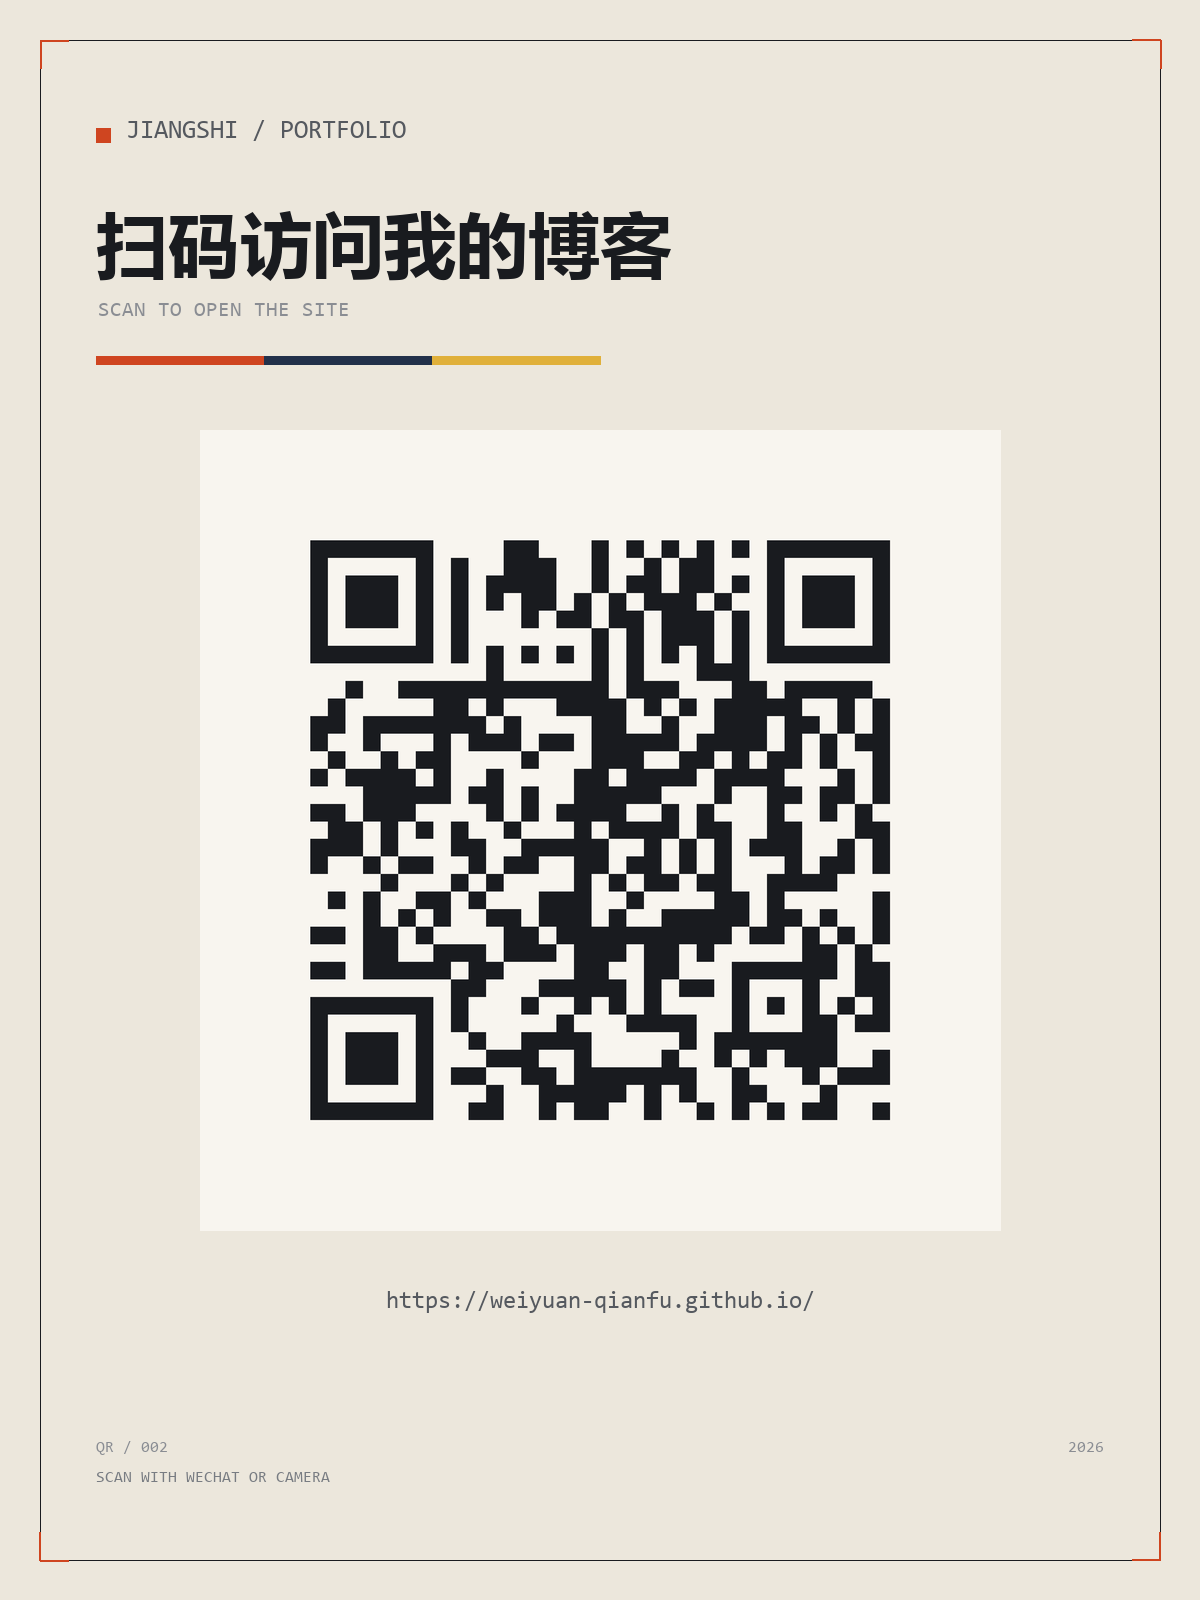
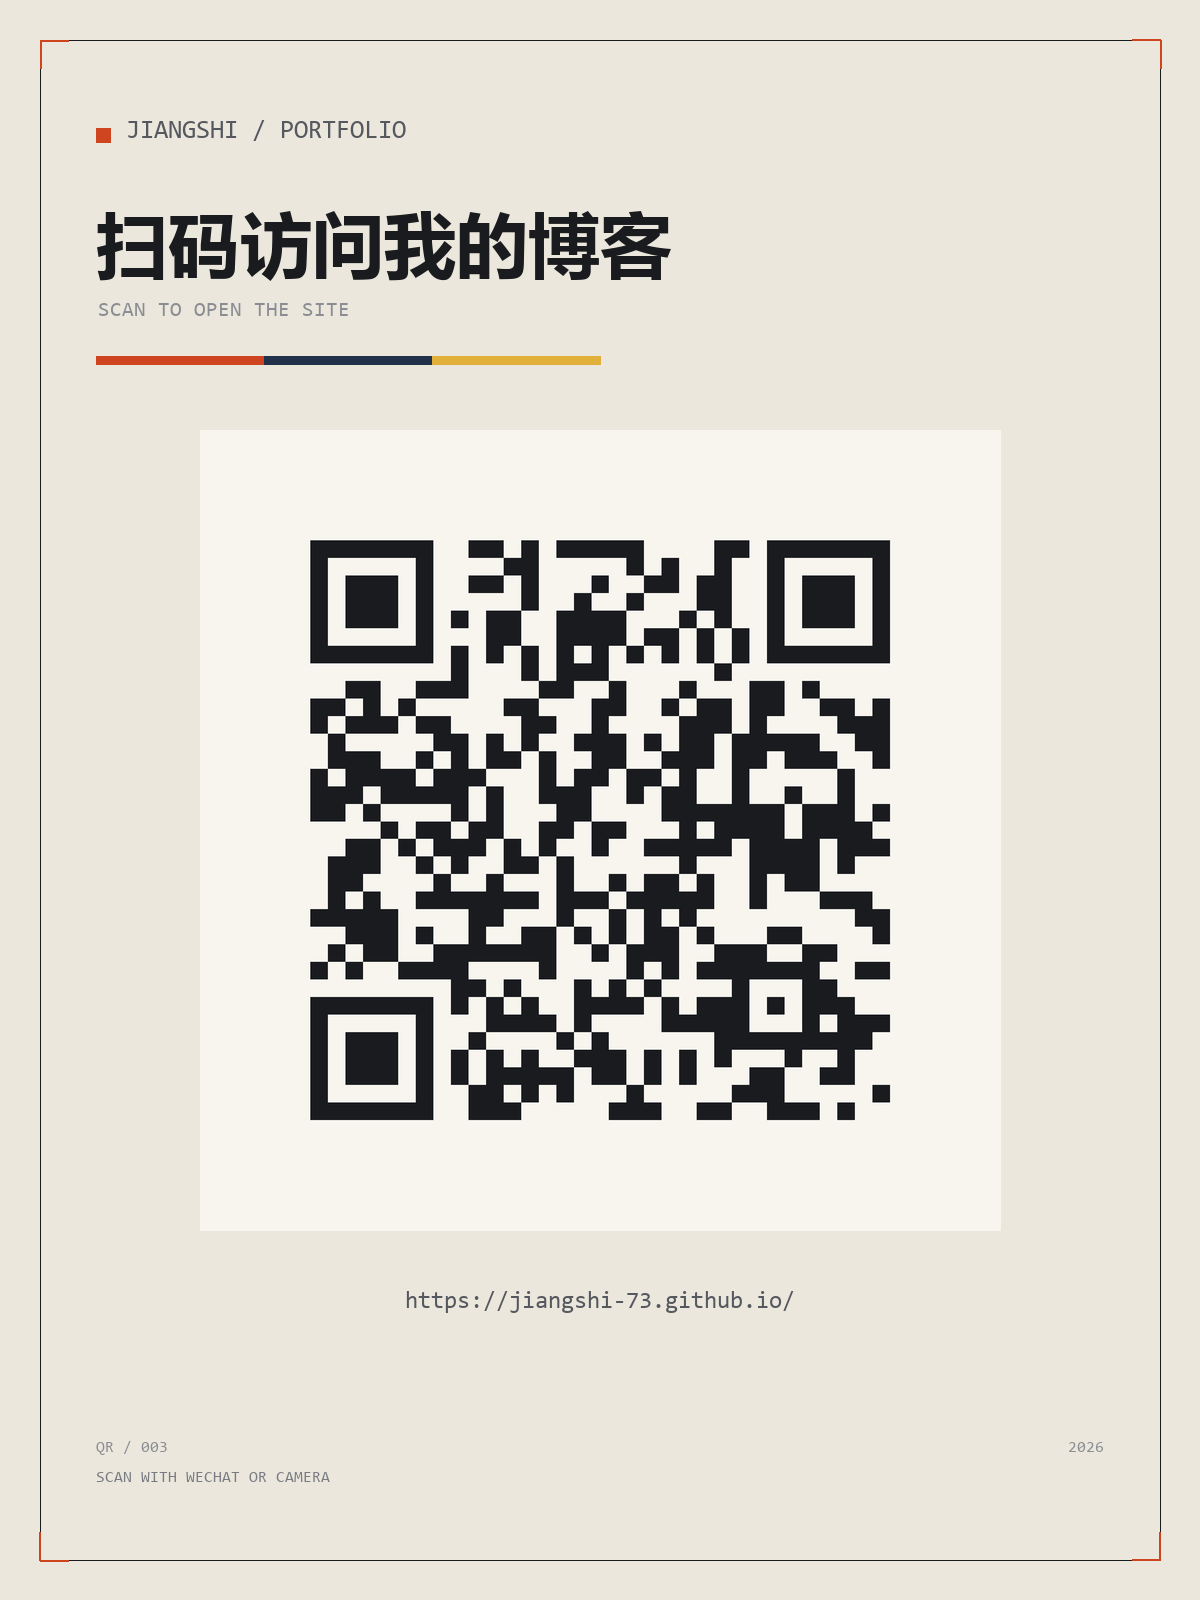
fix: 账号改回 JiangShi-73，站点地址与二维码切回 jiangshi-73.github.io

Changed region(s): [[0.2467, 0.3125, 0.74, 0.7188], [0.4008, 0.8125, 0.4625, 0.8438], [0.555, 0.8125, 0.5858, 0.8438]]

diff --git a/src/data/work.ts b/src/data/work.ts
@@ -31,7 +31,7 @@ export const works: WorkItem[] = [
     name: '这个站本身',
     stack: 'Astro / TypeScript / CSS',
     desc: '零框架运行时的静态收藏箱：内容集合、双主题、自托管字体，push 即部署。',
-    link: 'https://github.com/weiyuan-qianfu/weiyuan-qianfu.github.io',
+    link: 'https://github.com/JiangShi-73/JiangShi-73.github.io',
   },
   {
     name: '其余项目',

diff --git a/README.md b/README.md
@@ -4,7 +4,7 @@
 
 视觉走 NASA-punk「航天局印刷品」路线：米白纸面、墨黑粗规则线、赭红 / 藏青 / 芥末黄三块饱和色、编号与等宽标注；档案舱、角色、画三个页面用同一套版式的深色 token。构建产物是纯静态 HTML，零框架运行时。
 
-**线上地址：<https://weiyuan-qianfu.github.io/>**
+**线上地址：<https://jiangshi-73.github.io/>**
 
 > `docs/` 里的截图是旧版预览，仅作留档，可以随时删。
 
@@ -140,7 +140,7 @@ draft: false
 
 ## 发布
 
-仓库：[weiyuan-qianfu/weiyuan-qianfu.github.io](https://github.com/weiyuan-qianfu/weiyuan-qianfu.github.io)（GitHub 用户主页仓库，站点在根路径下，不需要 `base`）。
+仓库：[JiangShi-73/JiangShi-73.github.io](https://github.com/JiangShi-73/JiangShi-73.github.io)（GitHub 用户主页仓库，站点在根路径下，不需要 `base`）。
 
 改完内容推上去就自动发布：
 
@@ -158,7 +158,7 @@ GitHub Actions（[deploy.yml](.github/workflows/deploy.yml)）自动构建并发
 
 1. 在域名所在的阿里云账号里改解析：
    - `@`  A 记录 → `185.199.108.153` / `185.199.109.153` / `185.199.110.153` / `185.199.111.153`
-   - `www` CNAME → `weiyuan-qianfu.github.io`
+   - `www` CNAME → `jiangshi-73.github.io`
 2. 把 `astro.config.mjs` 的 `site` 改成 `'https://jiangshi.com'`
 3. 新建 `public/CNAME`，内容就一行：`jiangshi.com`
 4. 仓库 Settings → Pages → Custom domain 填 `jiangshi.com`，勾上 Enforce HTTPS
@@ -167,7 +167,7 @@ GitHub Actions（[deploy.yml](.github/workflows/deploy.yml)）自动构建并发
 
 ## 二维码
 
-指向站点首页的二维码，扫一下直接打开 <https://weiyuan-qianfu.github.io/>：
+指向站点首页的二维码，扫一下直接打开 <https://jiangshi-73.github.io/>：
 
 | 文件 | 用途 |
 | --- | --- |

diff --git a/HANDOFF.md b/HANDOFF.md
@@ -15,8 +15,8 @@
 
 | | |
 | --- | --- |
-| 线上 | <https://weiyuan-qianfu.github.io/> |
-| 仓库 | <https://github.com/weiyuan-qianfu/weiyuan-qianfu.github.io>（分支 `main`） |
+| 线上 | <https://jiangshi-73.github.io/> |
+| 仓库 | <https://github.com/JiangShi-73/JiangShi-73.github.io>（分支 `main`） |
 | 部署 | GitHub Pages + GitHub Actions（push 即自动构建） |
 | 构建产物 | 纯静态 HTML，13 个页面，约 600KB |
 
